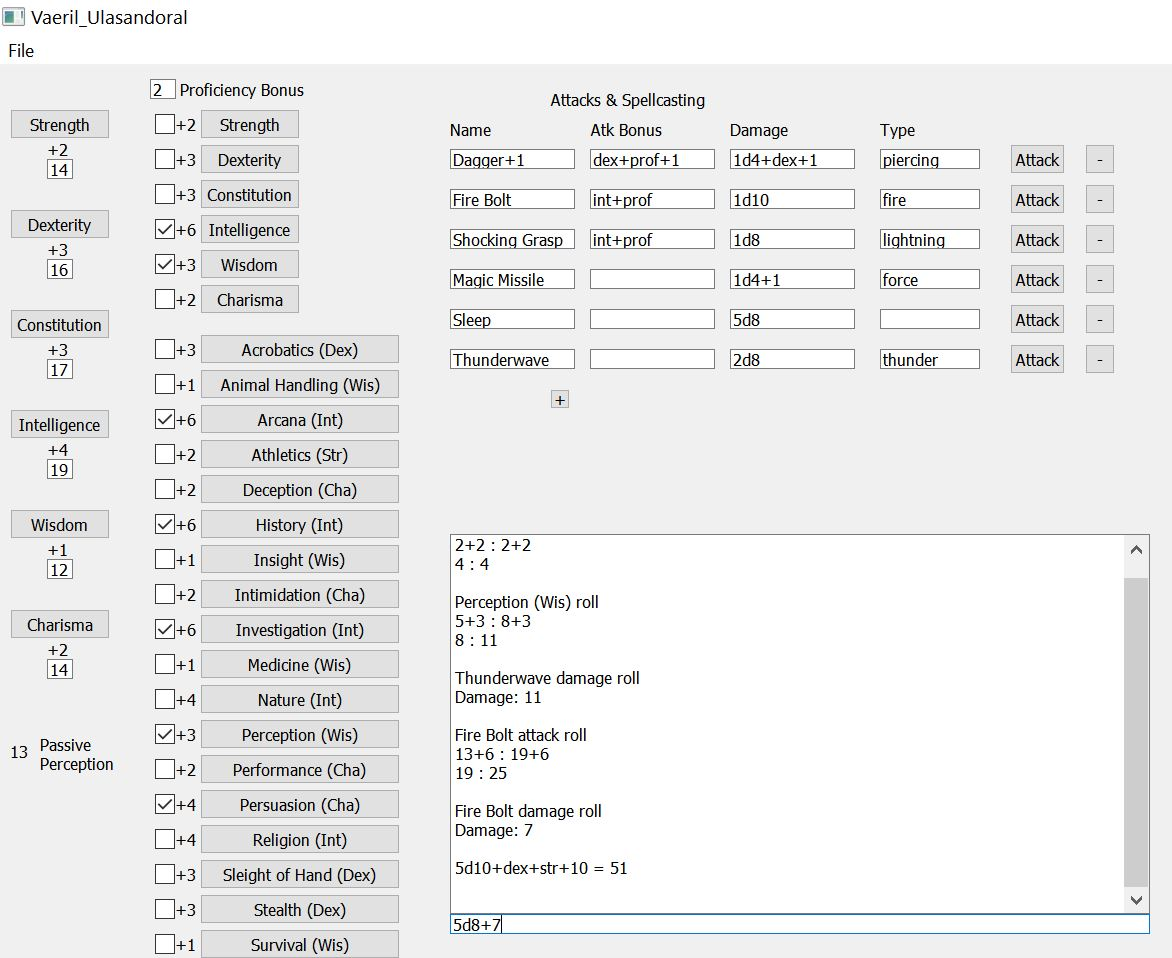
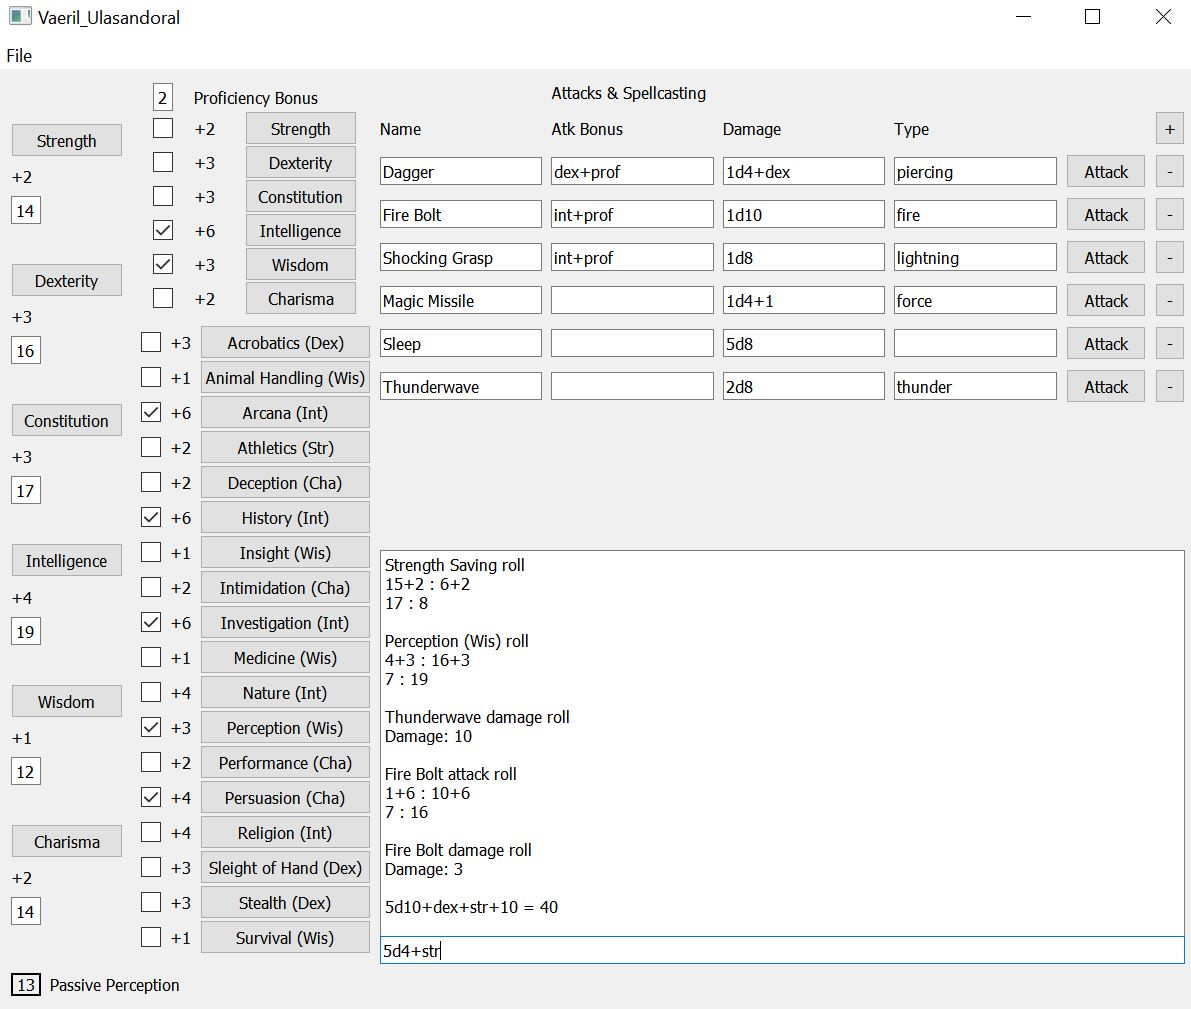
Attacks added to layout structure
Also force a maximum number of attacks that can be added to keep the window from becoming too large.
Also updated example image to match the current layout.

diff --git a/dnd_roller_gui.py b/dnd_roller_gui.py
@@ -397,29 +397,36 @@ class Window(QtWidgets.QMainWindow):
         self.attack_widget_list = []
         self.attack_list = []
         attacks_label = QLabel('Attacks & Spellcasting', self)
+        attacks_label.setSizePolicy(QtWidgets.QSizePolicy.Fixed, QtWidgets.QSizePolicy.Fixed)
 
         section_labels = [QLabel('Name', self),
                           QLabel('Atk Bonus', self),
                           QLabel('Damage', self),
                           QLabel('Type', self)]
         self.add_attack_btn = QPushButton('+', self)
+        self.add_attack_btn.setMaximumWidth(30)
+        self.attacks_layout.addWidget(self.add_attack_btn, 1, 5)
+        #self.add_attack_btn.resize(20, 20)
+        #self.add_attack_btn.move(550, top_margin+40)
 
         # Move and resize attack things
-        self.attacks_layout.addWidget(attacks_label, 0, 0, 1, 4)
+        self.attacks_layout.addWidget(attacks_label, 0, 1)
         #attacks_label.resize(160, 20)
         #attacks_label.move(550, top_margin-20)
 
-        self.section_labels_pos = [450, 590, 730, 880]
+        # self.section_labels_pos = [450, 590, 730, 880]
         for i in range(4):
             self.attacks_layout.addWidget(section_labels[i], 1, i)
             #section_labels[i].resize(len(section_labels[i].text())*11, 20)
             #section_labels[i].move(self.section_labels_pos[i], top_margin+10)
 
-        self.attacks_layout.addWidget(self.add_attack_btn, 2, 3)
-        #self.add_attack_btn.resize(20, 20)
-        #self.add_attack_btn.move(550, top_margin+40)
-
         self.add_attack_btn.clicked.connect(self.add_attack)
+        self.num_attacks = 0
+
+        # Add invisible labels to keep from needing to resize existing widgets
+        spacer = QLabel(' ', self)
+        for i in range(2, 11):
+            self.attacks_layout.addWidget(spacer, i, 0)
 
         # ---------------------------------------------------------------------
         # Roll log Section
@@ -543,22 +550,20 @@ class Window(QtWidgets.QMainWindow):
         other rolls for damage.
         """
 
-        xpos = self.add_attack_btn.x()
-        ypos = self.add_attack_btn.y()
+        self.num_attacks += 1
+        # Force 9 attacks maximum so it looks good
+        if self.num_attacks == 9:
+            self.add_attack_btn.setVisible(False)
 
-        # move button down
-        self.add_attack_btn.move(xpos, ypos+40)
-
-        # Add all the text boxes
-        section_textbox_sizes = [125, 125, 125, 100]
 
         curr_attack_ind = len(self.attack_widget_list)
 
         row = []
         for i in range(4):
             section = QLineEdit(self)
-            section.resize(section_textbox_sizes[i], 20)
-            section.move(self.section_labels_pos[i], ypos)
+            self.attacks_layout.addWidget(section, self.num_attacks+1, i)
+            #section.resize(section_textbox_sizes[i], 20)
+            #section.move(self.section_labels_pos[i], ypos)
             section.setVisible(True)
 
             # Connect every section to the function that saves the info
@@ -568,14 +573,18 @@ class Window(QtWidgets.QMainWindow):
 
         # Add buttons
         attack_btn = QPushButton('Attack', self)
+        attack_btn.setMaximumWidth(80)
         remove_btn = QPushButton('-', self)
+        remove_btn.setMaximumWidth(30)
 
-        attack_btn.resize(55, 30)
-        attack_btn.move(1010, ypos-5)
+        self.attacks_layout.addWidget(attack_btn, self.num_attacks+1, 4)
+        #attack_btn.resize(55, 30)
+        #attack_btn.move(1010, ypos-5)
         attack_btn.setVisible(True)
 
-        remove_btn.resize(30, 30)
-        remove_btn.move(1085, ypos-5)
+        self.attacks_layout.addWidget(remove_btn, self.num_attacks+1, 5)
+        #remove_btn.resize(30, 30)
+        #remove_btn.move(1085, ypos-5)
         remove_btn.setVisible(True)
 
         attack_btn.clicked.connect(partial(self.attack_roll, curr_attack_ind))
@@ -592,6 +601,9 @@ class Window(QtWidgets.QMainWindow):
         Remove this attack from the lists, move all attacks below it up by
         40 units as well as the add attack button.
         """
+        self.num_attacks -= 1
+        self.add_attack_btn.setVisible(True)
+
         for w in self.attack_widget_list[i]:
             w.deleteLater()
 
@@ -599,8 +611,10 @@ class Window(QtWidgets.QMainWindow):
         self.attack_list = self.attack_list[:i]+self.attack_list[i+1:]
 
         for j in range(i, len(self.attack_widget_list)):
-            for w in self.attack_widget_list[j]:
-                w.move(w.x(), w.y()-40)
+            for col, w in enumerate(self.attack_widget_list[j]):
+                # w.move(w.x(), w.y()-40)
+                self.attacks_layout.removeWidget(w)
+                self.attacks_layout.addWidget(w, j+2, col)
 
             attack_btn = self.attack_widget_list[j][-2]
             remove_btn = self.attack_widget_list[j][-1]
@@ -609,9 +623,9 @@ class Window(QtWidgets.QMainWindow):
             attack_btn.clicked.connect(partial(self.attack_roll, j))
             remove_btn.clicked.connect(partial(self.remove_attack, j))
 
-        xpos = self.add_attack_btn.x()
-        ypos = self.add_attack_btn.y()
-        self.add_attack_btn.move(xpos, ypos-40)
+        # xpos = self.add_attack_btn.x()
+        # ypos = self.add_attack_btn.y()
+        # self.add_attack_btn.move(xpos, ypos-40)
 
     def attack_roll(self, attack_ind):
         """
